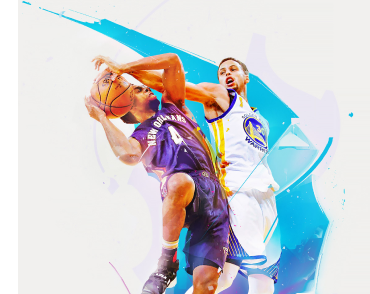
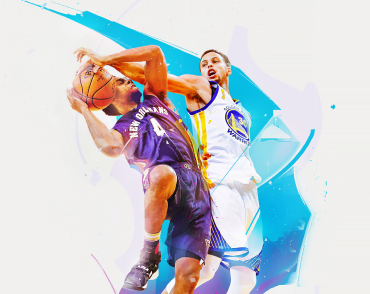
123

diff --git a/CSS/style.css b/CSS/style.css
@@ -19,7 +19,7 @@
   padding-right: 15px;
   margin-left: auto;
   margin-right: auto;
-  outline: 1px solid blue;
+  outline: 1px solid red;
   
 }
 
@@ -106,7 +106,11 @@ letter-spacing: 0.28px;
   padding-top: 200px;
   padding-bottom: 200px;
   text-align: center;
-  background-color: var(--footer-background);
+ /* background-image: url(../img/hero.png); */
+ background-image: linear-gradient(rgba(47, 48, 58, 0.40), rgba(47, 48, 58, 0.40)), url(../img/hero.png);
+ background-position: center;
+ background-repeat: no-repeat;
+ background-size: cover;
   
   }
 
@@ -157,6 +161,23 @@ letter-spacing: 0.28px;
      text-transform: uppercase;
    }
 
+   .subject-item::before{
+    content: "";
+    display: block;
+    margin-bottom: 30px;
+    width: 270px;
+    height: 120px;
+    border-radius: 4px;
+    background-color: var(--team-background);
+     background-image: url(../img/antenna.jpg);
+    background-repeat: no-repeat;
+    background-position: center;
+    background-size: 70px;
+   }
+
+   .subject-item:nth-child()
+
+   
 
   .subject-text{
    font-family: 'Roboto';
@@ -204,6 +225,8 @@ flex-shrink: 0;
   padding-top: 94px;
  }
 
+ 
+
  .team-title{
   color: var(--main-color);
   text-align: center;
@@ -228,6 +251,7 @@ flex-shrink: 0;
 background-color: var(--tytle-color);
 border-radius: 0px 0px 4px 4px;
 
+
 }
 
 .team-titles{
@@ -237,13 +261,14 @@ border-radius: 0px 0px 4px 4px;
  font-size: 16px;
  font-weight: 500;
  line-height: 1.18;
- padding-top: 30px;
+ margin-bottom: 10px;
  
  }
  
  .margin{
-  margin-top: 10px;
-  margin-bottom: 30px;
+  padding-top: 30px;
+  padding-bottom: 30px;
+  background-color: var(--tytle-color);
  }
 
  .team-text{
@@ -254,6 +279,7 @@ font-size: 16px;
 font-weight: 400;
 line-height: 1.18;
 
+
 }
 
 .footer{
@@ -263,8 +289,11 @@ line-height: 1.18;
   }
 
 .footer-list{
-  gap: 20px;
-  flex-wrap: wrap-reverse;
+  display: flex;
+  flex-direction: column;
+  gap: 9px;
+  margin-top: 9px;
+
 }
 .footer-Web{
   color: var(--akcen-tcolor);
@@ -281,6 +310,8 @@ font-family: "Raleway";
 font-size: 26px;
 font-weight: 700;
 line-height: 1.38;
+margin-bottom: 20px;
+display: inline-block;
 
 }
 
@@ -366,7 +397,9 @@ line-height: 1.38;
   font-size: 16px;
   font-weight: 500;
   line-height: 1.62;
-  ;
+  
+  padding: 6px 22px;
+  
  }
  .offers-button:hover{
   background-color: var(--akcen-tcolor);
@@ -404,12 +437,19 @@ font-weight: 500;
  .frame-list{
   display: flex;
   flex-wrap: wrap;
-    justify-content: space-between;
+   
     gap: 30px;
+    margin-top: 50px;
  }
 
  .frame-item{
-  padding-top: 50px;
+  
+  outline: 1px solid #EEE;
+  flex-basis: calc((100% - 60px) / 3);
+ }
+
+ .frame-box{
+  padding: 20px 24px;
  }
  
  .offers-title{
@@ -418,7 +458,8 @@ font-weight: 500;
   font-size: 18px;
   font-weight: 700;
   line-height: 2;
-  margin-top: 20px;
+  
+  margin-bottom: 4px;
  }
 
  .offers-text{

diff --git a/index.html b/index.html
@@ -8,7 +8,9 @@
   <link rel="preconnect" href="https://fonts.gstatic.com" crossorigin>
   <link rel="stylesheet" href= "link rel="preconnect href="https://fonts.googleapis.com">
   <link rel="preconnect" href="https://fonts.gstatic.com" crossorigin>
-  <link href="https://fonts.googleapis.com/css2?family=Raleway:ital,wght@0,100..900;1,100..900&family=Roboto:ital,wght@0,100;0,300;0,400;0,500;0,700;0,900;1,100;1,300;1,400;1,500;1,700;1,900&display=swap" rel="stylesheet">">
+  <link rel="preconnect" href="https://fonts.googleapis.com">
+<link rel="preconnect" href="https://fonts.gstatic.com" crossorigin>
+<link href="https://fonts.googleapis.com/css2?family=Raleway:ital,wght@0,100..900;1,100..900&family=Roboto:ital,wght@0,100;0,300;0,400;0,500;0,700;0,900;1,100;1,300;1,400;1,500;1,700;1,900&display=swap" rel="stylesheet">
   <link rel="stylesheet" href="https://cdnjs.cloudflare.com/ajax/libs/modern-normalize/3.0.1/modern-normalize.min.css" integrity="sha512-q6WgHqiHlKyOqslT/lgBgodhd03Wp4BEqKeW6nNtlOY4quzyG3VoQKFrieaCeSnuVseNKRGpGeDU3qPmabCANg==" crossorigin="anonymous" referrerpolicy="no-referrer" />
   <link rel="stylesheet" href="CSS/reset.css">
   <link rel="stylesheet" href="CSS/style.css">
@@ -70,7 +72,7 @@
     </div>
      </section> 
      <section class="team">
-      <div class="container">
+      <div class="container" class="div">
       <h2 class="team-title">НАША КОМАНДА</h2>
       <ul class="team-list">
         <li class="team-item">

diff --git a/portofolio.html b/portofolio.html
@@ -41,8 +41,10 @@
              <ul class="frame-list">
               <li class="frame-item">
                 <img src="img2/technokryk.png" alt="technokryk" class="offers-img">
+                <div class="frame-box">
                 <h2 class="offers-title">Технокряк</h2>
                 <p class="offers-text">Веб-сайт</p>
+              </div>
               </li>
               <li class="frame-item">
                 <img src="img2/poster.png" alt="poster" class="offers-img">

diff --git a/CSS/reset.css b/CSS/reset.css
@@ -9,8 +9,13 @@ ul{
 
 img{
     display: block;
+    width: 100%;
 }
 
 h1,h2,h3,h4,p{
     margin: 0;
+}
+
+address{
+    font-style: normal;
 }
